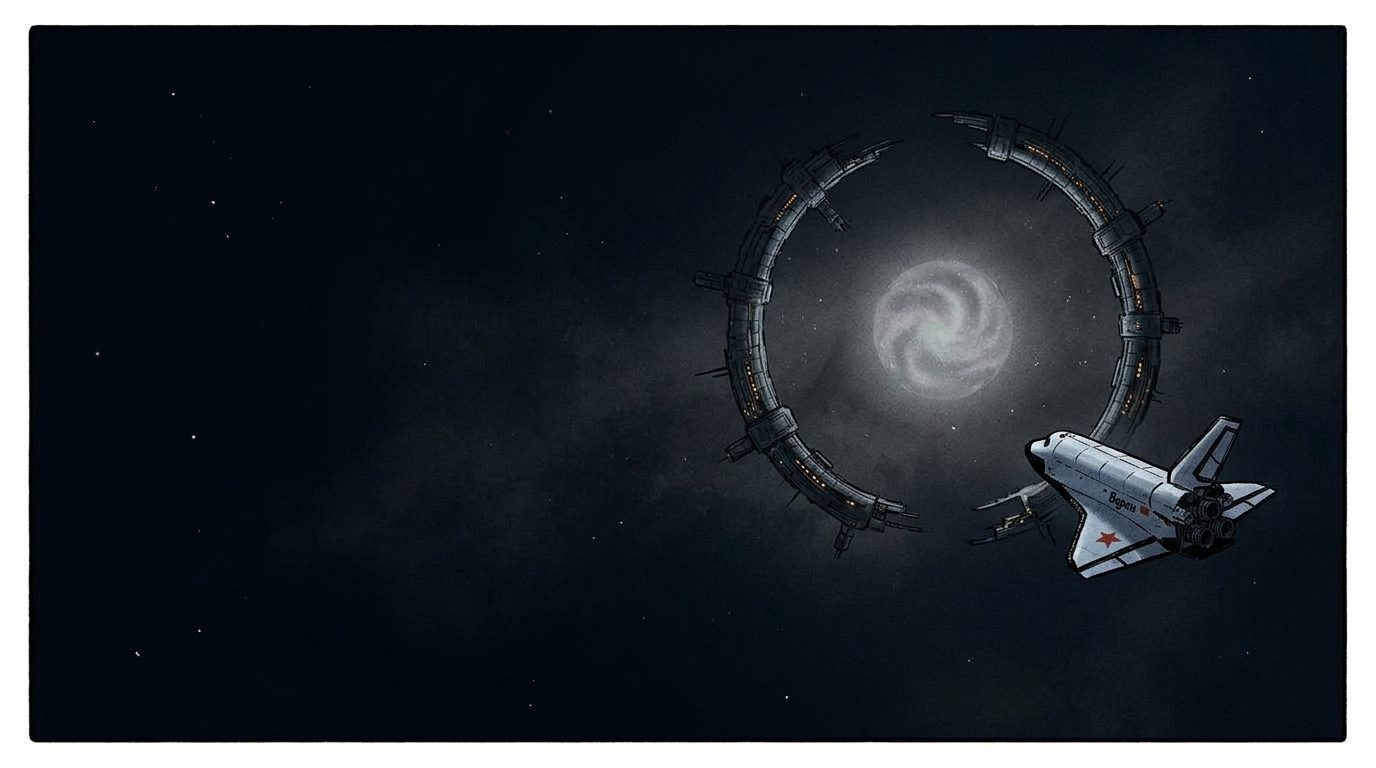
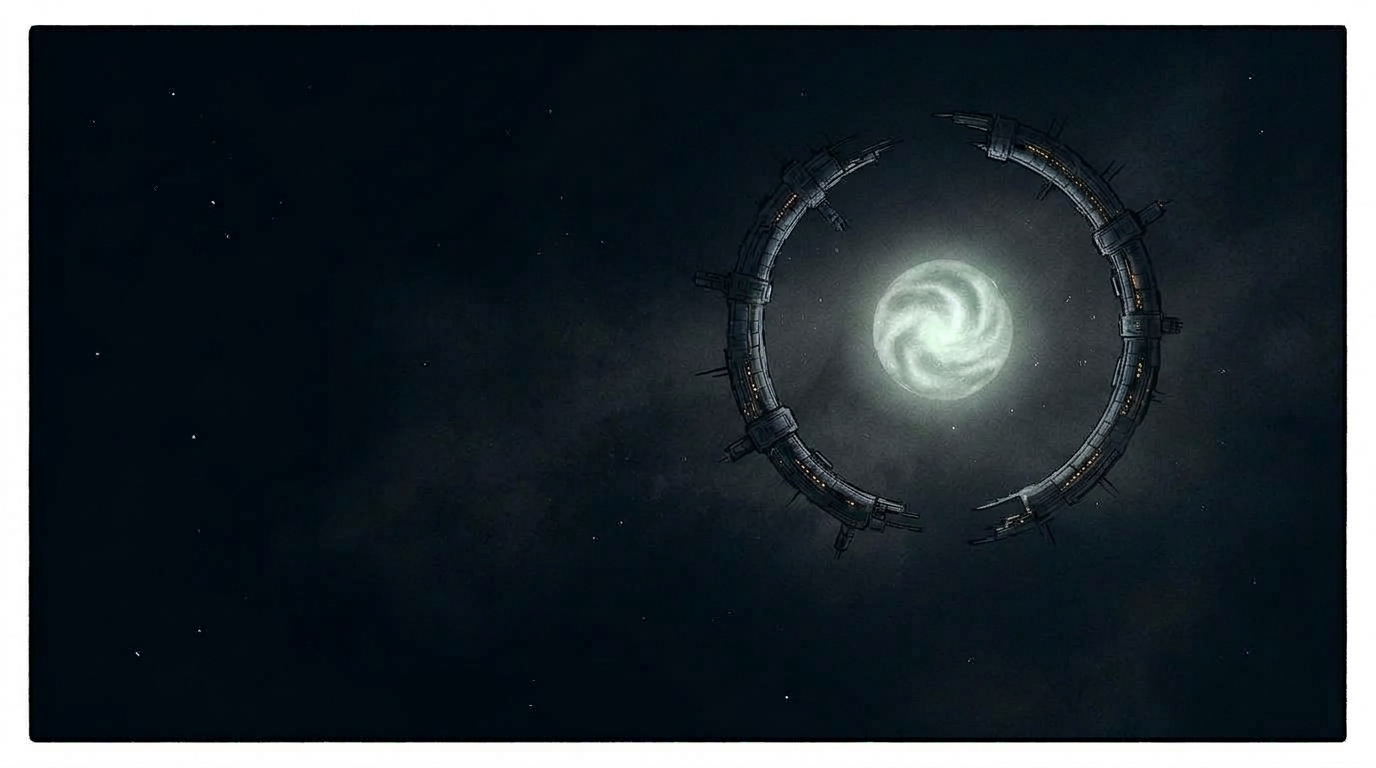
Menu: shuttle-free backdrop with the Buran as a floating sprite; radiation codex plate

Changed region(s): [[0.625, 0.3125, 0.75, 0.5625], [0.75, 0.5312, 0.9375, 0.75], [0.7812, 0.25, 0.8125, 0.2812]]

diff --git a/core/src/com/buran/game/background/MenuArtLife.java b/core/src/com/buran/game/background/MenuArtLife.java
@@ -21,7 +21,7 @@ class MenuArtLife implements Disposable {
     private static final float IH = 1037f;
     private static final float CX = 1335f;
     private static final float CY = 442f;
-    private static final float CORE_R = 160f;   // half the size of ui/menu_core.png
+    private static final float CORE_R = 161f;   // half the size of ui/menu_core.png
 
     private static final float[][] WINDOWS = {
             {1467, 173}, {1486, 183}, {1535, 224}, {1112, 248}, {1566, 259}, {1617, 366},
@@ -32,20 +32,22 @@ class MenuArtLife implements Disposable {
             {233, 597}, {956, 629}, {862, 723}, {822, 745}, {242, 882}, {149, 914}, {1374, 926},
             {1106, 979}, {728, 991},
     };
-    /** Buran: near wingtip (red), far wingtip (green), top of the fin (white strobe). */
-    private static final float[] PORT = {1538, 791};
-    private static final float[] STARBOARD = {1813, 677};
-    private static final float[] FIN = {1767, 578};
-    private static final float[][] NOZZLES = {{1708, 741}, {1742, 727}, {1750, 688}};
-    /** The cut-out shuttle (ui/menu_shuttle.png) and the painted-out space under it. */
-    private static final float BOX_L = 1440f, BOX_T = 550f, BOX_R = 1860f, BOX_B = 830f;
-    private static final float PIVOT_X = 1640f, PIVOT_Y = 690f;
+    /**
+     * The Buran sprite (ui/menu_shuttle.png, 603 x 402): where its centre sits on the art and how
+     * wide it is there, in image pixels. Lights are in sprite pixels: near wingtip (red), far
+     * wingtip (green), top of the fin (white strobe), the engine bells.
+     */
+    private static final float SHIP_CX = 1615f, SHIP_CY = 705f, SHIP_W = 405f;
+    private static final float SPRITE_W = 603f, SPRITE_H = 402f;
+    private static final float[] PORT = {118, 350};
+    private static final float[] STARBOARD = {592, 180};
+    private static final float[] FIN = {500, 16};
+    private static final float[][] NOZZLES = {{395, 212}, {440, 222}, {475, 260}, {420, 290}};
 
     private static final int DUST = 46;
 
     private final TextureRegion core;
     private final Texture shuttle;
-    private final Texture patch;
     private final com.badlogic.gdx.math.Vector2 tmp = new com.badlogic.gdx.math.Vector2();
     private float bobX, bobY, bobRot;
     private final Texture dot;
@@ -67,7 +69,6 @@ class MenuArtLife implements Disposable {
             core = null;
         }
         shuttle = load("ui/menu_shuttle.png");
-        patch = shuttle == null ? null : load("ui/menu_patch.png");
         dot = radial(64, false);
         ring = radial(256, true);
         for (int i = 0; i < phase.length; i++) {
@@ -154,10 +155,6 @@ class MenuArtLife implements Disposable {
             batch.draw(core, px(x, w, CX) - size / 2f, py(y, h, CY) - size / 2f, size / 2f, size / 2f,
                     size, size, s, s, time * 4f);
         }
-        if (patch != null) {
-            batch.setColor(1f, 1f, 1f, 1f);
-            batch.draw(patch, px(x, w, BOX_L), py(y, h, BOX_B), (BOX_R - BOX_L) * k, (BOX_B - BOX_T) * k);
-        }
         batch.setBlendFunction(GL20.GL_SRC_ALPHA, GL20.GL_ONE);
         // Core glow, pulsing.
         float glow = 0.16f + 0.07f * MathUtils.sin(time * 0.8f) + 0.03f * MathUtils.sin(time * 2.3f);
@@ -196,11 +193,12 @@ class MenuArtLife implements Disposable {
         if (shuttle != null) {
             batch.setBlendFunction(GL20.GL_SRC_ALPHA, GL20.GL_ONE_MINUS_SRC_ALPHA);
             batch.setColor(1f, 1f, 1f, 1f);
-            float bx = px(x, w, BOX_L) + bobX * k;
-            float by = py(y, h, BOX_B) + bobY * k;
-            float bw = (BOX_R - BOX_L) * k;
-            float bh = (BOX_B - BOX_T) * k;
-            batch.draw(shuttle, bx, by, (PIVOT_X - BOX_L) * k, (BOX_B - PIVOT_Y) * k, bw, bh, 1f, 1f, bobRot,
+            float sw = SHIP_W * k;
+            float sh = sw * SPRITE_H / SPRITE_W;
+            float bx = px(x, w, SHIP_CX) - sw / 2f + bobX * k;
+            float by = py(y, h, SHIP_CY) - sh / 2f + bobY * k;
+            batch.setColor(0.86f, 0.88f, 0.92f, 1f);   // sit in the scene's muted light
+            batch.draw(shuttle, bx, by, sw / 2f, sh / 2f, sw, sh, 1f, 1f, bobRot,
                     0, 0, shuttle.getWidth(), shuttle.getHeight(), false, false);
             batch.setBlendFunction(GL20.GL_SRC_ALPHA, GL20.GL_ONE);
         }
@@ -228,9 +226,12 @@ class MenuArtLife implements Disposable {
 
     /** Where an image point of the shuttle is on screen now (it bobs and rolls). Result in tmp. */
     private void ship(float[] p, float x, float y, float w, float h, float k) {
-        float cx = px(x, w, PIVOT_X);
-        float cy = py(y, h, PIVOT_Y);
-        tmp.set(px(x, w, p[0]) - cx, py(y, h, p[1]) - cy).rotateDeg(bobRot);
+        float cx = px(x, w, SHIP_CX);
+        float cy = py(y, h, SHIP_CY);
+        float s = SHIP_W / SPRITE_W;
+        float ix = SHIP_CX + (p[0] - SPRITE_W / 2f) * s;
+        float iy = SHIP_CY + (p[1] - SPRITE_H / 2f) * s;
+        tmp.set(px(x, w, ix) - cx, py(y, h, iy) - cy).rotateDeg(bobRot);
         tmp.add(cx + bobX * k, cy + bobY * k);
     }
 
@@ -278,9 +279,6 @@ class MenuArtLife implements Disposable {
         ring.dispose();
         if (shuttle != null) {
             shuttle.dispose();
-        }
-        if (patch != null) {
-            patch.dispose();
         }
     }
 }

diff --git a/tools/art/menu_layers.py b/tools/art/menu_layers.py
@@ -1,0 +1,93 @@
+"""Builds the living-menu layers from art/ui/raw (run after prepare_ui.py):
+
+  assets/ui/menu_shuttle.png  the Buran keyed out of art/ui/raw/layers/menu_shuttle.jpg
+                              (drawn on flat green), green spill removed, soft edge
+  assets/ui/menu_core.png     the anomaly sphere cut out of assets/ui/menu.jpg with a soft
+                              round edge, so the game can turn it
+
+Prints the measured points (sphere, station windows, stars) for MenuArtLife.
+
+Usage: python3 tools/art/menu_layers.py
+"""
+import os
+
+import numpy as np
+from PIL import Image
+from scipy import ndimage as nd
+
+ROOT = os.path.dirname(os.path.dirname(os.path.dirname(os.path.abspath(__file__))))
+UI = os.path.join(ROOT, "assets", "ui")
+
+
+def shuttle():
+    im = np.asarray(Image.open(os.path.join(ROOT, "art", "ui", "raw", "layers", "menu_shuttle.jpg"))
+                    .convert("RGB")).astype(float)
+    r, g, b = im[..., 0], im[..., 1], im[..., 2]
+    # Greenness: how far green rises above the other two channels.
+    spill = g - np.maximum(r, b)
+    fg = spill < 60
+    lab, n = nd.label(fg)
+    h, w = fg.shape
+    # The largest piece that does not touch the image edge (the white frame does).
+    best, size = 0, 0
+    for i, sl in enumerate(nd.find_objects(lab), 1):
+        if sl[0].start == 0 or sl[1].start == 0 or sl[0].stop == h or sl[1].stop == w:
+            continue
+        s = int((lab[sl] == i).sum())
+        if s > size:
+            best, size = i, s
+    mask = nd.binary_fill_holes(lab == best)
+    # Soft alpha from the green distance at the edge.
+    soft = np.clip((90 - spill) / 60.0, 0, 1)
+    edge = nd.binary_dilation(mask, iterations=2) & ~nd.binary_erosion(mask, iterations=2)
+    alpha = np.where(edge, soft, mask.astype(float))
+    alpha = nd.gaussian_filter(alpha, 0.6)
+    # Despill: green no brighter than the brighter of red and blue.
+    g2 = np.minimum(g, np.maximum(r, b) + 6)
+    rgba = np.dstack([r, g2, b, alpha * 255]).clip(0, 255).astype(np.uint8)
+    ys, xs = np.nonzero(mask)
+    x0, x1, y0, y1 = xs.min() - 4, xs.max() + 5, ys.min() - 4, ys.max() + 5
+    out = Image.fromarray(rgba[y0:y1, x0:x1], "RGBA")
+    out.save(os.path.join(UI, "menu_shuttle.png"), optimize=True)
+    print("shuttle", out.size)
+
+
+def core_and_points():
+    im = Image.open(os.path.join(UI, "menu.jpg")).convert("RGB")
+    a = np.asarray(im).astype(float)
+    lum = a.mean(2)
+    s = nd.uniform_filter(lum, 61)
+    cy, cx = np.unravel_index(s.argmax(), s.shape)
+    # Sphere radius: where the brightness along the row falls to half.
+    rad = next(r for r in range(20, 400, 2) if lum[cy, min(lum.shape[1] - 1, cx + r)] < 0.5 * lum[cy, cx])
+    print("core", int(cx), int(cy), "radius", rad)
+    r_out = int(rad * 1.55)
+    r_in = int(rad * 0.95)
+    crop = np.asarray(im.crop((cx - r_out, cy - r_out, cx + r_out, cy + r_out))).astype(np.uint8)
+    sz = 2 * r_out
+    yy, xx = np.mgrid[0:sz, 0:sz] + 0.5
+    t = np.clip((np.hypot(xx - r_out, yy - r_out) - r_in) / (r_out - r_in), 0, 1)
+    alpha = ((1 - t * t * (3 - 2 * t)) * 255).astype(np.uint8)
+    Image.fromarray(np.dstack([crop, alpha]), "RGBA").save(os.path.join(UI, "menu_core.png"), optimize=True)
+    print("core png", sz)
+    # Station windows: small warm specks brighter than their surroundings, on the ring.
+    R, B = a[..., 0], a[..., 2]
+    loc = lum - nd.uniform_filter(lum, 15)
+    H, W = lum.shape
+    yy, xx = np.mgrid[0:H, 0:W]
+    dist = np.hypot(xx - cx, yy - cy)
+    win = (R - B > 15) & (loc > 10) & (dist > rad * 2.1) & (dist < rad * 4.2)
+    lab, n = nd.label(win)
+    pts = []
+    for y, x in nd.center_of_mass(win, lab, range(1, n + 1)):
+        if all((x - p[0]) ** 2 + (y - p[1]) ** 2 > 18 ** 2 for p in pts):
+            pts.append((int(x), int(y)))
+    print("windows", pts)
+    st = (loc > 30) & (lum > 110) & (dist > rad * 4.5) & (nd.maximum_filter(lum, 9) == lum)
+    ys, xs = np.nonzero(st)
+    print("stars", list(zip(xs.tolist(), ys.tolist()))[:30])
+
+
+if __name__ == "__main__":
+    shuttle()
+    core_and_points()
